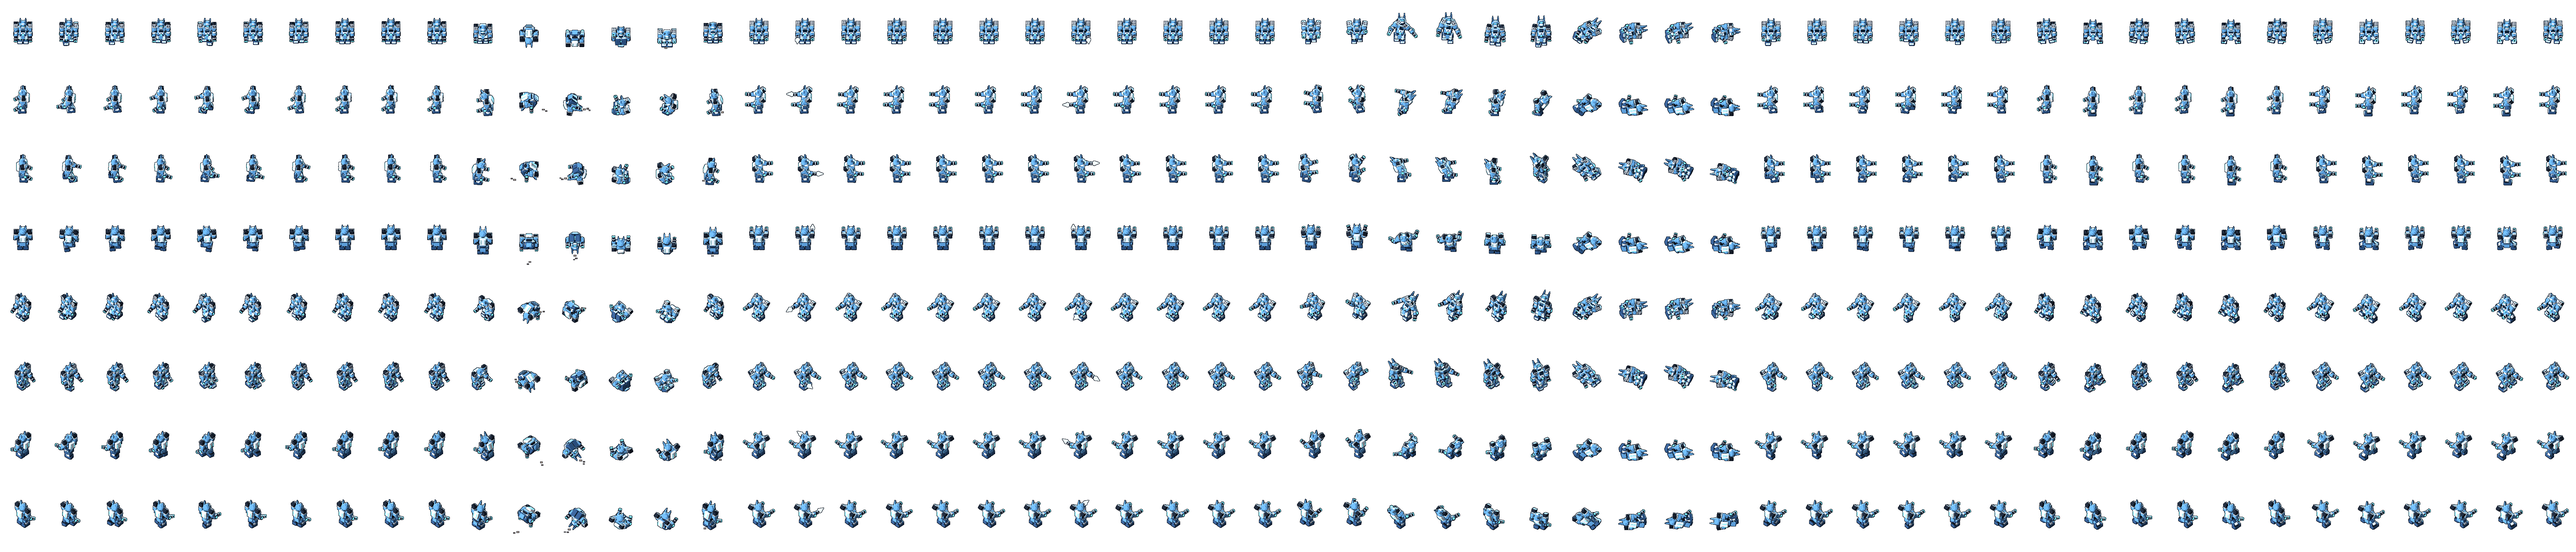
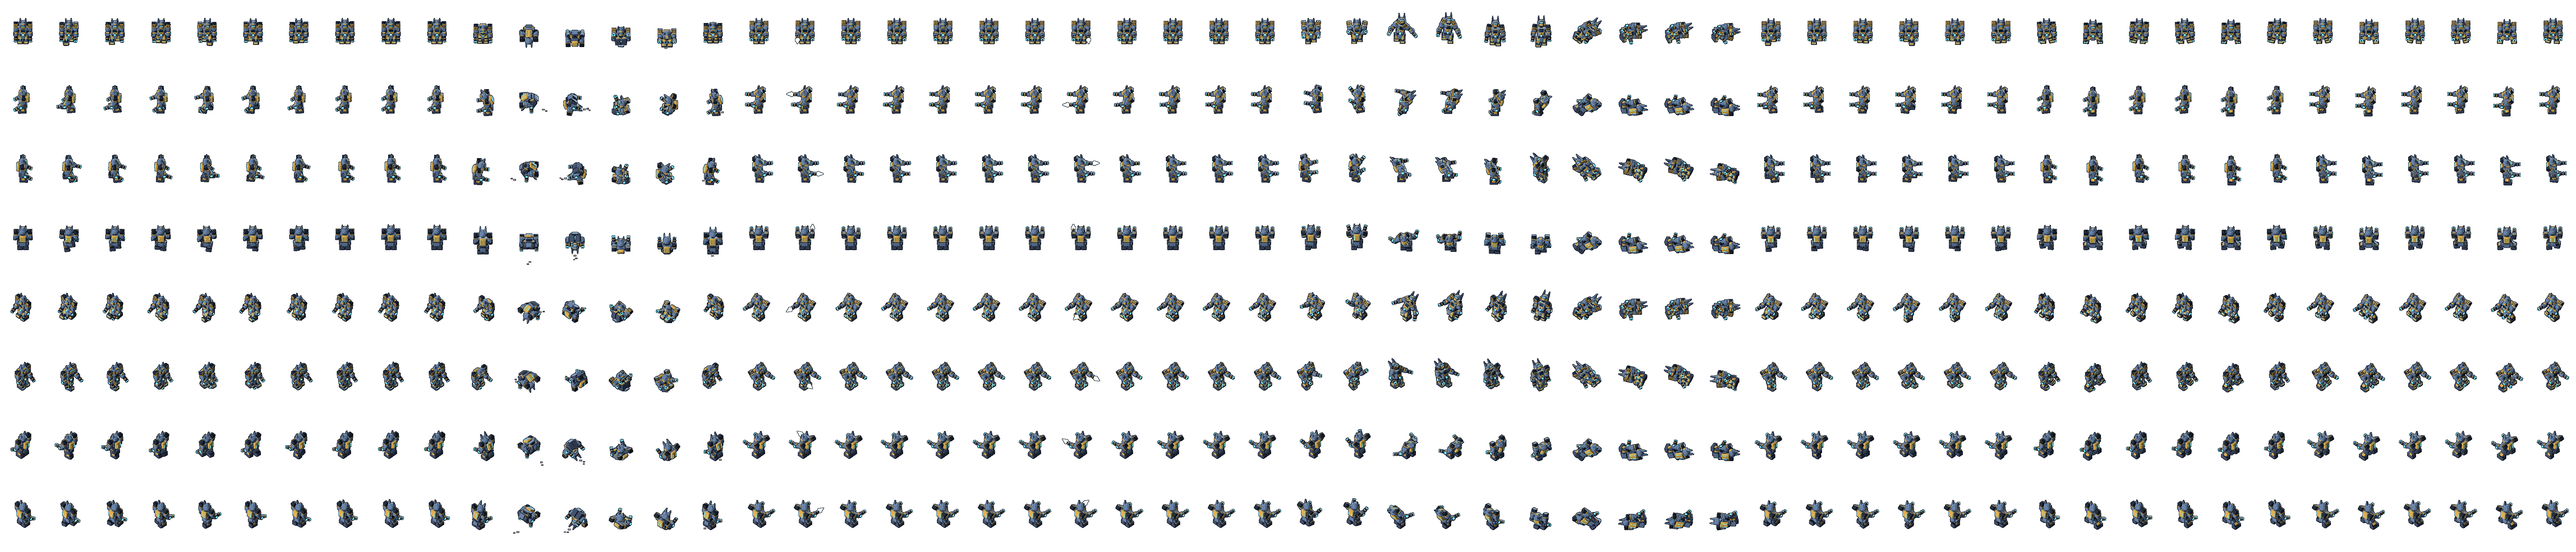
Mecha do LightWolf: paleta aço carvão e latão
O mecha destoava do Hazaki e do Nicão: 42% de área muito clara e nenhuma
cor quente. Troca cor por cor na folha do jogo e na fonte, com as bases
novas no modelo.py e a luz de recorte no gerar.py. Alfa e normal iguais.

Claude-Session: https://claude.ai/code/session_019UDbB6VLgcXyWCBxm8uMG6

diff --git a/jogos/hordas/fonte_arte/blender_herois/lightwolf_mecha/recolorir_paleta.py b/jogos/hordas/fonte_arte/blender_herois/lightwolf_mecha/recolorir_paleta.py
@@ -1,0 +1,61 @@
+"""Troca a paleta do mecha direto na folha pronta, sem Blender (15/11/2026, paleta "aço carvão e latão").
+
+Para cada material, recalcula as 4 faixas (escura, sombra, base, luz) com a mesma conta do `estilizar` do gerar.py e troca cor por cor.
+O resultado é o mesmo de mudar a PALETA do modelo.py e renderizar de novo; o alfa, o contorno e o clarão do tiro (#f2ffff) não mudam.
+As cores NOVAS já estão no modelo.py e no gerar.py; este script só serve para repetir a troca numa folha ainda na paleta ANTIGA.
+
+Uso: python recolorir_paleta.py folha_albedo.png [outra.png ...]   (regrava no lugar)
+"""
+import sys
+
+import numpy as np
+from PIL import Image
+
+ANTIGA = {"Casco azul": "#5b9dd9", "Casco claro": "#e6f2ff", "Casco escuro": "#294d7b"}
+NOVA = {"Casco azul": "#4f6480", "Casco claro": "#b48c3a", "Casco escuro": "#2f384c"}
+SOLTAS = {"#b3e8ff": "#8ea9c4"}  # luz de recorte (o mix do gerar.py)
+
+
+def hexa(s):
+    s = s.lstrip("#")
+    return tuple(int(s[i:i + 2], 16) for i in (0, 2, 4))
+
+
+def mais(base, soma, mult):
+    return tuple(min(255, max(0, round(base[i] * mult + soma[i] * 255))) for i in range(3))
+
+
+def faixas(base):
+    return [mais(base, (0.008, 0.014, 0.030), 0.24), mais(base, (0.008, 0.014, 0.024), 0.52), base, mais(base, (0.065, 0.075, 0.095), 1.12)]
+
+
+def mapa():
+    m = {}
+    for nome in ANTIGA:
+        for a, b in zip(faixas(hexa(ANTIGA[nome])), faixas(hexa(NOVA[nome]))):
+            m[a] = b
+    for a, b in SOLTAS.items():
+        m[hexa(a)] = hexa(b)
+    return m
+
+
+def recolorir(caminho):
+    img = np.array(Image.open(caminho).convert("RGBA"))
+    saida = img.copy()
+    opaco = img[..., 3] > 0
+    trocados = 0
+    for cor in np.unique(img[opaco][:, :3], axis=0):
+        cor = tuple(int(c) for c in cor)
+        for de, para in mapa().items():
+            if max(abs(de[i] - cor[i]) for i in range(3)) <= 2:  # folga do arredondamento do render
+                sel = opaco & (img[..., 0] == cor[0]) & (img[..., 1] == cor[1]) & (img[..., 2] == cor[2])
+                saida[sel, :3] = para
+                trocados += int(sel.sum())
+                break
+    Image.fromarray(saida).save(caminho, optimize=True)
+    print("%s: %d px trocados (%.1f%% do opaco)" % (caminho, trocados, 100.0 * trocados / max(1, int(opaco.sum()))))
+
+
+if __name__ == "__main__":
+    for c in sys.argv[1:]:
+        recolorir(c)

diff --git a/jogos/hordas/fonte_arte/blender_herois/lightwolf_mecha/modelo.py b/jogos/hordas/fonte_arte/blender_herois/lightwolf_mecha/modelo.py
@@ -17,7 +17,7 @@ def P(x, y, z):
 
 # nome -> cor base (tom do meio das 4 faixas; o jogo e escuro, entao o casco e um azul de aco, nao o azul-gelo da referencia)
 PALETA = {
-    "Casco azul": "#5b9dd9", "Casco claro": "#e6f2ff", "Casco escuro": "#294d7b", "Junta preta": "#111925", "Vidro da cabine": "#092239",
+    "Casco azul": "#4f6480", "Casco claro": "#b48c3a", "Casco escuro": "#2f384c", "Junta preta": "#111925", "Vidro da cabine": "#092239",
     "Bocal": "#161b2a", "Haste de aço": "#46526c",
 }
 BRILHANTES = {"Neon ciano": "#7ff3ff", "Clarao do tiro": "#f2ffff"}

diff --git a/jogos/hordas/fonte_arte/blender_herois/lightwolf_mecha/gerar.py b/jogos/hordas/fonte_arte/blender_herois/lightwolf_mecha/gerar.py
@@ -146,7 +146,7 @@ def estilizar(material, base):
     links.new(rasante.outputs[0], fac.inputs[1])
     mix = nodes.new("ShaderNodeMixRGB")
     mix.blend_type = "MIX"
-    mix.inputs["Color2"].default_value = lin(hexa("#b3e8ff"))
+    mix.inputs["Color2"].default_value = lin(hexa("#8ea9c4"))
     links.new(fac.outputs[0], mix.inputs["Fac"])
     links.new(rampa.outputs["Color"], mix.inputs["Color1"])
     links.new(mix.outputs["Color"], emissao.inputs["Color"])

diff --git a/LOGBOOK.md b/LOGBOOK.md
@@ -3410,3 +3410,5 @@ Para liberar o NVMe, apaguei tudo em `C:\Dev\KIKIU` menos `KIKIU-Survival`, `.cl
 - 14/11/2026 (repasse: o Alisson vai continuar o projeto nos Projetos do Claude, só com o que está no GitHub): **a main está em dia** (`8d11681b`, Latest `build-2026-11-09-8d11681`); nenhum branch local tem commit fora do remoto. **A tag `v2.0-rc1` NÃO foi criada** (a RC era sex 13/11, #342): nenhuma das verificações da seção 3 do `docs/RC1.md` foi feita (partidas completas, FPS no i5 do Breno, save do beta, passe do Reduzir piscadas, créditos). **PRs abertos:** #631 (martelo: flash menor e rachaduras escuras; espera o ok visual do Alisson e agora tem conflito com a main); #578, #588, #597, #598 foram adiados para a v3 (K.A.O.S); #304, #330, #476 são referência antiga. **Só existe neste notebook, fora do GitHub:** `C:\Dev\KIKIU\notas` (fila do Godot `godot_fila.ps1`, referências do ChatGPT em `artes_chatgpt` A06 a A25, planos e logs das ondas), os dois `git stash` da limpeza de 10/11, a pasta `Referencia Animação/` (vídeo do Alisson, não versionado) e a memória local do Claude Code. **Windows Sandbox:** ativada no notebook em 09/11 e o executável existe, mas o primeiro teste (`sandbox.ps1 -Testes v2_martelo,v2_teia_lento`) saiu com código 5 (a sandbox fechou sem terminar) e a causa não foi investigada; até resolver, teste headless roda fora dela, dizendo isso no PR. Não há mais PC: é tudo no notebook. Claude do Alisson (notebook)
 
 - 14/11/2026: a pedido do Alisson ("mandar tudo o que não for arquivo grande para o GitHub", só o técnico e útil, porque o repositório é público), entrou a pasta `notas/` com a fila do Godot (`godot_fila.ps1`), o atalho da Maré do Nicão, os dois rascunhos do guia de arte e as referências do ChatGPT A06 a A25 (16 MB, só referência, não assets). O `notas/LEIA-ME.md` diz o que é cada coisa e o que ficou só no notebook. Claude do Alisson (notebook)
+
+- 15/11/2026: paleta nova do mecha do LightWolf, "aço carvão e latão", escolhida pelo Alisson entre duas propostas (ele achou que o mecha destoava do Hazaki e do Nicão). Medido nas folhas: o mecha tinha claridade mediana de 55% (Hazaki 22%, Nicão 35%), 42% de área muito clara (5% e 2%) e 0% de cor quente (28% e 18%); saturação e contorno já batiam. **Feito:** troca cor por cor na `prototipos/cara_nova/sprites/lightwolf_mecha_albedo.png` e na `lightwolf_mecha_final_albedo.png` (script `fonte_arte/blender_herois/lightwolf_mecha/recolorir_paleta.py`), bases novas no `modelo.py` e luz de recorte no `gerar.py`. Alfa e normal idênticos, 28 cores, o clarão do tiro (`#f2ffff`) continua branco. **Não visto:** nada rodou no Godot (thread na nuvem), nem testes nem partida com luz; o render no Blender com a PALETA nova não foi refeito. **Pendente:** ver na partida e mostrar ao Isac antes do merge; retrato de 128 (`assets/personagens/lightwolf/retrato_dupla_128.png`), ícones de habilidade e efeitos do mecha continuam no azul antigo. PR em rascunho, merge só com o ok visual do Alisson. Claude do Alisson (nuvem)

diff --git a/jogos/hordas/fonte_arte/blender_herois/lightwolf_mecha/LEIA-ME.md b/jogos/hordas/fonte_arte/blender_herois/lightwolf_mecha/LEIA-ME.md
@@ -28,3 +28,4 @@ O projétil da E tem imagem procedural própria de 24×9 px (ogiva, corpo, aleta
 A convergência encurtada é linear. Se a boca já estiver além do contato ou um alvo tardio exigir voltar no desenho, o voo fica oculto até alcançar novamente a última posição aceita; corpo, rastro e sombra usam a mesma decisão. O clarão na arma e o impacto continuam, mesmo sem espaço para um voo visível. A trajetória física e seus instantes de dano permanecem iguais. Esse controle acompanha somente projéteis com bocas projetadas, não modifica estado durante o desenho e reinicia o referencial quando ocorre um ricochete real.
 
 O `strafe` e o `strafe_tiro` (05/11, pedido do Alisson: "Faça animação do strafe (andar de lado) que não parece existir") ficam nas colunas 44 a 49 e 50 a 55, depois das 44 de antes, que não mudam: a remontagem foi conferida pixel a pixel. A folha passa a ter 56 colunas, ou 7168 px. O `anim_strafe.py` faz dois passo-junta de 3 quadros (abre, apoia, junta) para o +x do rig, no ritmo do andar (0,11 s), com o corpo virado para a linha da mira. Tocado de trás para a frente, o ciclo vai para o outro lado com o pé de apoio parado. As pernas só abrem (abdução, `ABRE` 0,75 rad) e nunca cruzam. O ângulo sai de `asin`, então o pé plantado anda no corpo a passo constante. No Blender, a bota plantada mede 8 px por quadro; o corpo a 90 px/s pede 10 px, e a alavanca curta das pernas não dá mais que isso sem a base ficar exagerada. O `anim_strafe_tiro.py` junta essas pernas com o tronco do `andar_tiro` (braços na mira, o torso desfaz o tombo do quadril). O `montar_folha.py` grava `animacoes.strafe_tiro.desvio_boca` no formato do `andar_tiro` e `limiar_cos`/`histerese` (0,5 e 0,08) nas duas entradas, que o `heroi.gd` vai ler para escolher o strafe pelo ângulo entre o movimento e a mira.
+**Paleta "aço carvão e latão" (15/11, pedido do Alisson: o mecha destoava do Hazaki e do Nicão).** Medido nas folhas: o mecha tinha 42% de área muito clara e nenhuma cor quente, contra 2 a 5% e 18 a 28% dos outros dois. As bases mudaram no `modelo.py` (casco azul `#4f6480`, casco claro `#b48c3a`, casco escuro `#2f384c`) e a luz de recorte no `gerar.py` (`#8ea9c4`); o neon ciano, as juntas, o vidro e o clarão do tiro ficaram. A folha do jogo e a `lightwolf_mecha_final_albedo.png` foram trocadas cor por cor pelo `recolorir_paleta.py` (mesma conta das 4 faixas do `gerar.py`, sem Blender): alfa, contorno e normal idênticos. Um render novo no Blender ainda não foi feito para confirmar que sai igual.
